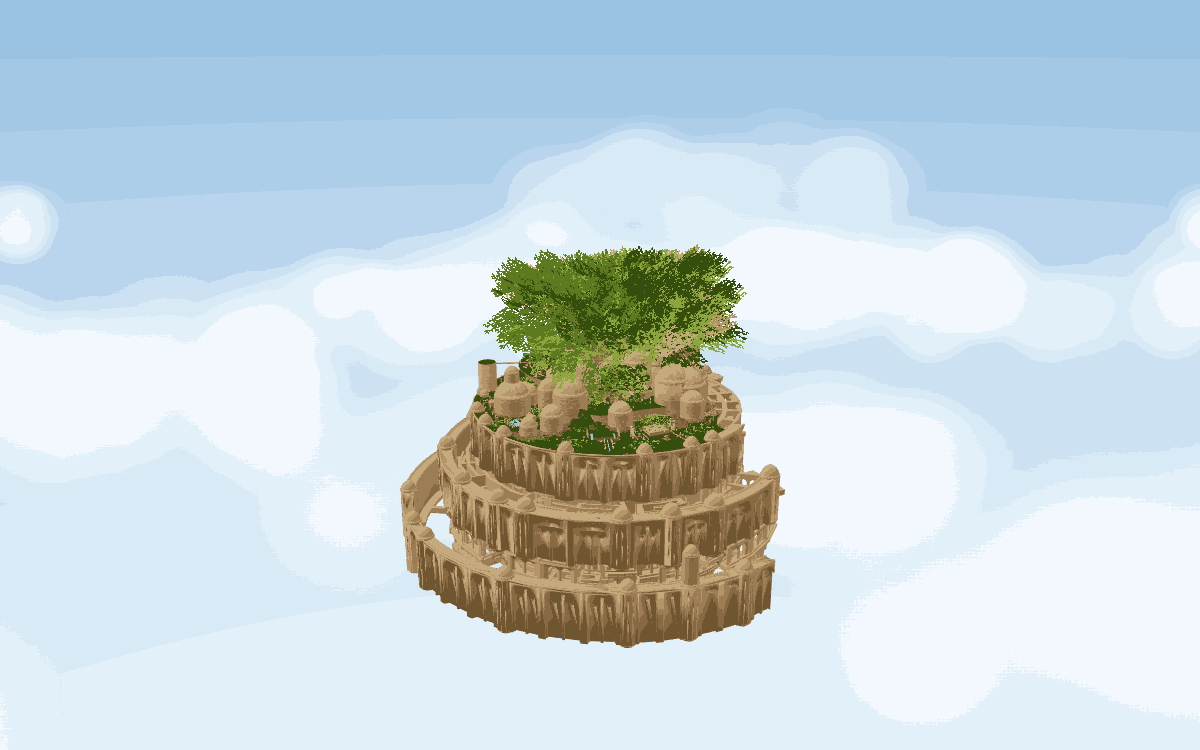
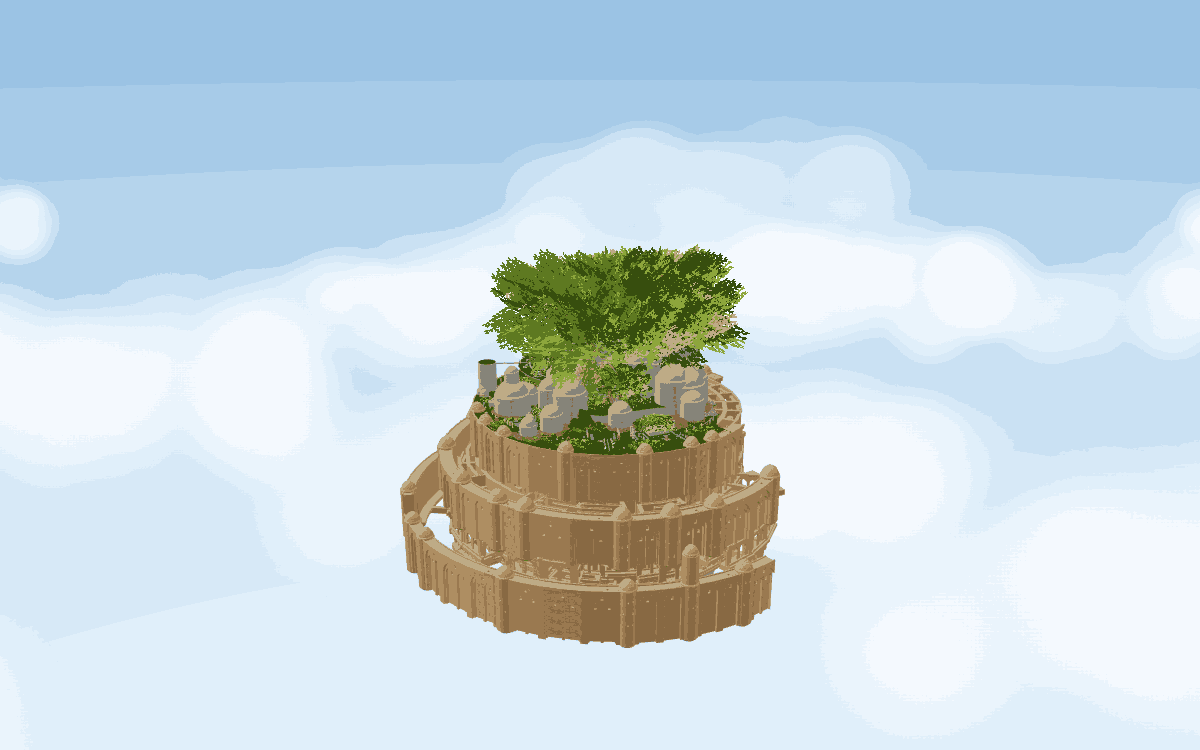
lab: fix laputa-skyward

Changed region(s): [[0.3392, 0.3373, 0.6475, 0.8587]]

diff --git a/lab/sketches/laputa-skyward.html b/lab/sketches/laputa-skyward.html
@@ -12,20 +12,21 @@ html,body{margin:0;width:100%;height:100%;overflow:hidden;background:#fff;font-f
 <script src="https://cdn.jsdelivr.net/npm/three@0.128.0/build/three.min.js"></script>
 <script src="https://cdn.jsdelivr.net/npm/three@0.128.0/examples/js/controls/OrbitControls.js"></script>
 <script src="https://cdn.jsdelivr.net/npm/three@0.128.0/examples/js/loaders/GLTFLoader.js"></script>
-<script src="https://cdn.jsdelivr.net/npm/three@0.128.0/examples/js/loaders/DRACOLoader.js"></script>
+<script src="https://cdn.jsdelivr.net/npm/meshoptimizer@0.24.0/meshopt_decoder.js"></script>
 <script>
 (()=>{'use strict';
 const status=document.querySelector('.status'),message=document.querySelector('#message'),progress=document.querySelector('progress');
 function fail(text){status.hidden=false;message.textContent=text;progress.hidden=true;}
-if(!window.THREE||!THREE.OrbitControls||!THREE.GLTFLoader||!THREE.DRACOLoader){fail('3D 라이브러리를 불러오지 못했습니다. 네트워크 연결을 확인하고 다시 열어주세요.');return;}
-let renderer;try{renderer=new THREE.WebGLRenderer({antialias:true,alpha:false,powerPreference:'high-performance'});}catch(e){fail('WebGL을 사용할 수 없습니다. 하드웨어 가속을 지원하는 브라우저에서 열어주세요.');return;}
-renderer.setPixelRatio(Math.min(devicePixelRatio||1,2));renderer.outputEncoding=THREE.sRGBEncoding;renderer.toneMapping=THREE.ACESFilmicToneMapping;renderer.toneMappingExposure=.95;document.body.prepend(renderer.domElement);
+if(!window.THREE||!THREE.OrbitControls||!THREE.GLTFLoader||!window.MeshoptDecoder){fail('3D 라이브러리를 불러오지 못했습니다. 네트워크 연결을 확인하고 다시 열어주세요.');return;}
+const mobileMode=matchMedia('(pointer: coarse)').matches||innerWidth<=800||(navigator.deviceMemory&&navigator.deviceMemory<=4);const pixelLimit=mobileMode?1.25:2;
+let renderer;try{renderer=new THREE.WebGLRenderer({antialias:!mobileMode,alpha:false,powerPreference:mobileMode?'low-power':'high-performance'});}catch(e){fail('WebGL을 사용할 수 없습니다. 하드웨어 가속을 지원하는 브라우저에서 열어주세요.');return;}
+renderer.setPixelRatio(Math.min(devicePixelRatio||1,pixelLimit));renderer.outputEncoding=THREE.sRGBEncoding;renderer.toneMapping=THREE.ACESFilmicToneMapping;renderer.toneMappingExposure=.95;document.body.prepend(renderer.domElement);
 const canvas=renderer.domElement;canvas.tabIndex=0;canvas.setAttribute('aria-label','라퓨타 3D 탐색. 드래그와 방향키로 회전, 휠 또는 더하기 빼기로 확대, H로 처음 시점.');
 const scene=new THREE.Scene();scene.background=new THREE.Color('#ffffff');const camera=new THREE.PerspectiveCamera(40,1,.05,1000);const controls=new THREE.OrbitControls(camera,canvas);controls.enableDamping=true;controls.dampingFactor=.055;controls.enablePan=true;controls.panSpeed=.35;controls.screenSpacePanning=true;controls.mouseButtons.MIDDLE=THREE.MOUSE.PAN;controls.mouseButtons.RIGHT=THREE.MOUSE.ROTATE;controls.rotateSpeed=.24;controls.zoomSpeed=.45;controls.minPolarAngle=.12;controls.maxPolarAngle=Math.PI*.85;
 scene.add(new THREE.HemisphereLight(0xe8f2ff,0x73715f,.85));const key=new THREE.DirectionalLight(0xfff1d9,1.15);key.position.set(-30,55,35);scene.add(key);const fill=new THREE.DirectionalLight(0xdbe8ff,.35);fill.position.set(35,10,-30);scene.add(fill);
 let model=null,radius=20,frame=0,loaded=false,contextLost=false;
 const reduced=matchMedia('(prefers-reduced-motion: reduce)'),skip=document.querySelector('#skip'),pause=document.querySelector('#pause');let intro=false,introTime=0,elapsed=0,lastTime=0,paused=false;const clouds=[];const homeTarget=new THREE.Vector3(),homePosition=new THREE.Vector3();
-const stats=window.laputaStats={ready:false,frames:0,calls:0,triangles:0};
+const stats=window.laputaStats={ready:false,frames:0,calls:0,triangles:0,mobile:!!mobileMode};
 function draw(time){frame=0;if(document.hidden||contextLost)return;const dt=lastTime?Math.min((time-lastTime)/1000,.05):0;lastTime=time;
 if(loaded&&!reduced.matches&&!paused){elapsed+=dt;for(const cloud of clouds){cloud.position.x=cloud.userData.x+Math.sin(elapsed*.018+cloud.userData.phase)*radius*.8;cloud.position.z=cloud.userData.z+Math.cos(elapsed*.012+cloud.userData.phase)*radius*.3;}if(intro){introTime+=dt;const t=Math.min(1,introTime/8),e=t*t*t*(t*(t*6-15)+10),angle=Math.PI/4+(1-e)*Math.PI*1.45,distance=homePosition.distanceTo(homeTarget)*(1+2.5*(1-e)),elevation=Math.atan(.48/Math.sqrt(2))+.22*(1-e);camera.position.copy(homeTarget).add(new THREE.Vector3(Math.sin(angle)*Math.cos(elevation),Math.sin(elevation),Math.cos(angle)*Math.cos(elevation)).multiplyScalar(distance));camera.lookAt(homeTarget);if(t===1)finishIntro();}}
 if(loaded&&!intro)controls.update();renderer.render(scene,camera);stats.target=controls.target.toArray();stats.frames++;stats.calls=renderer.info.render.calls;stats.triangles=renderer.info.render.triangles;stats.intro=intro;stats.elapsed=elapsed;stats.camera=camera.position.toArray();if(loaded&&!reduced.matches&&!paused)invalidate();else lastTime=0;}
@@ -36,18 +37,18 @@ function createAtmosphere(){
 const sky=new THREE.Mesh(new THREE.SphereGeometry(radius*23,32,16),new THREE.ShaderMaterial({side:THREE.BackSide,depthWrite:false,uniforms:{},vertexShader:'varying vec3 direction;void main(){direction=position;gl_Position=projectionMatrix*modelViewMatrix*vec4(position,1.0);}',fragmentShader:'varying vec3 direction;void main(){vec3 d=normalize(direction);float h=smoothstep(-.65,.85,d.y);vec3 c=mix(vec3(.88,.94,.98),vec3(.23,.52,.77),h);float sun=pow(max(dot(d,normalize(vec3(-.6,.4,-.7))),0.0),90.0);c+=vec3(.24,.18,.10)*sun;gl_FragColor=vec4(c,1.0);}'}));sky.position.copy(homeTarget);sky.renderOrder=-10;scene.add(sky);scene.background=null;
 const textureCanvas=document.createElement('canvas');textureCanvas.width=512;textureCanvas.height=256;const c=textureCanvas.getContext('2d');let seed=23;function random(){seed=(seed*1664525+1013904223)>>>0;return seed/4294967296;}
 for(let i=0;i<50;i++){const x=90+random()*330,y=112+(random()-.5)*75,r=24+random()*47,g=c.createRadialGradient(x,y,0,x,y,r);g.addColorStop(0,'rgba(255,255,255,.55)');g.addColorStop(.55,'rgba(250,253,255,.36)');g.addColorStop(1,'rgba(237,245,255,0)');c.fillStyle=g;c.fillRect(x-r,y-r,r*2,r*2);}const tex=new THREE.CanvasTexture(textureCanvas);tex.encoding=THREE.sRGBEncoding;
-for(let i=0;i<52;i++){const angle=random()*Math.PI*2,ring=radius*(2.6+random()*6),cloud=new THREE.Sprite(new THREE.SpriteMaterial({map:tex,toneMapped:false,transparent:true,opacity:.55+random()*.35,depthWrite:false,fog:false}));cloud.position.set(homeTarget.x+Math.sin(angle)*ring,homeTarget.y-radius*(.65+random()*1.5),homeTarget.z+Math.cos(angle)*ring);const scale=radius*(2.2+random()*3);cloud.scale.set(scale,scale*.42,1);cloud.userData={x:cloud.position.x,z:cloud.position.z,phase:random()*6};clouds.push(cloud);scene.add(cloud);}
+for(let i=0;i<(mobileMode?26:52);i++){const angle=random()*Math.PI*2,ring=radius*(2.6+random()*6),cloud=new THREE.Sprite(new THREE.SpriteMaterial({map:tex,toneMapped:false,transparent:true,opacity:.55+random()*.35,depthWrite:false,fog:false}));cloud.position.set(homeTarget.x+Math.sin(angle)*ring,homeTarget.y-radius*(.65+random()*1.5),homeTarget.z+Math.cos(angle)*ring);const scale=radius*(2.2+random()*3);cloud.scale.set(scale,scale*.42,1);cloud.userData={x:cloud.position.x,z:cloud.position.z,phase:random()*6};clouds.push(cloud);scene.add(cloud);}
 // Distant gliding birds, kept outside the castle silhouette.
 const birdPositions=[];for(let i=0;i<14;i++){const x=(random()-.5)*radius*8,y=homeTarget.y+radius*(.5+random()),z=-radius*(2+random()*2),a=radius*.04;birdPositions.push(x-a,y,z,x,y-a*.3,z,x,y-a*.3,z,x+a,y,z);}const birds=new THREE.LineSegments(new THREE.BufferGeometry().setAttribute('position',new THREE.Float32BufferAttribute(birdPositions,3)),new THREE.LineBasicMaterial({color:0x647e8e,transparent:true,opacity:.45}));scene.add(birds);
 }
 
 function invalidate(){if(!frame&&!document.hidden&&!contextLost)frame=requestAnimationFrame(draw);}
 controls.addEventListener('change',invalidate);
-function resize(){renderer.setPixelRatio(Math.min(devicePixelRatio||1,2));renderer.setSize(innerWidth,innerHeight);camera.aspect=innerWidth/Math.max(1,innerHeight);camera.updateProjectionMatrix();if(loaded){setHome();}invalidate();}
+function resize(){renderer.setPixelRatio(Math.min(devicePixelRatio||1,pixelLimit));renderer.setSize(innerWidth,innerHeight);camera.aspect=innerWidth/Math.max(1,innerHeight);camera.updateProjectionMatrix();if(loaded){setHome();}invalidate();}
 function setHome(){const fov=THREE.MathUtils.degToRad(camera.fov),lim=Math.min(fov,2*Math.atan(Math.tan(fov/2)*camera.aspect)),distance=radius/Math.sin(lim/2)*.76;homePosition.copy(homeTarget).add(new THREE.Vector3(1,.48,1).normalize().multiplyScalar(distance));controls.maxDistance=distance*2;}
 function home(){const damping=controls.enableDamping;controls.enableDamping=false;controls.update();controls.target.copy(homeTarget);camera.position.copy(homePosition);controls.update();controls.enableDamping=damping;invalidate();}
-const decoder=new THREE.DRACOLoader();decoder.setDecoderPath('https://cdn.jsdelivr.net/npm/three@0.128.0/examples/js/libs/draco/gltf/');decoder.setWorkerLimit(2);const loader=new THREE.GLTFLoader();loader.setDRACOLoader(decoder);
-loader.load('../../assets/models/lab/laputa-web.glb?v=laputa2',g=>{model=g.scene;const box=new THREE.Box3().setFromObject(model),sphere=box.getBoundingSphere(new THREE.Sphere());radius=sphere.radius;homeTarget.copy(sphere.center);scene.add(model);camera.near=radius/1500;camera.far=radius*80;camera.updateProjectionMatrix();controls.minDistance=radius*.12;loaded=true;document.querySelector('#home').disabled=false;setHome();home();createAtmosphere();intro=!reduced.matches;introTime=0;controls.enabled=!intro;skip.hidden=!intro;status.hidden=true;stats.ready=true;syncMotion();stats.meshes=0;model.traverse(o=>{if(o.isMesh)stats.meshes++;});decoder.dispose();},e=>{if(e.lengthComputable){progress.max=e.total;progress.value=e.loaded;message.textContent='라퓨타를 불러오는 중 · '+Math.round(e.loaded/e.total*100)+'%';}},()=>{decoder.dispose();fail('모델을 불러오지 못했습니다. 네트워크 연결을 확인한 후 다시 열어주세요.');});
+const loader=new THREE.GLTFLoader();loader.setMeshoptDecoder(MeshoptDecoder);
+loader.load('../../assets/models/lab/'+(mobileMode?'laputa-mobile.glb':'laputa-desktop.glb')+'?v=uv-memory-3',g=>{model=g.scene;model.traverse(o=>{if(o.isMesh){const materials=Array.isArray(o.material)?o.material:[o.material];for(const m of materials){if(m.userData.webFlatShading)m.flatShading=true;}}});const box=new THREE.Box3().setFromObject(model),sphere=box.getBoundingSphere(new THREE.Sphere());radius=sphere.radius;homeTarget.copy(sphere.center);scene.add(model);camera.near=radius/1500;camera.far=radius*80;camera.updateProjectionMatrix();controls.minDistance=radius*.12;loaded=true;document.querySelector('#home').disabled=false;setHome();home();createAtmosphere();intro=!reduced.matches;introTime=0;controls.enabled=!intro;skip.hidden=!intro;status.hidden=true;stats.ready=true;syncMotion();stats.meshes=0;model.traverse(o=>{if(o.isMesh)stats.meshes++;});},e=>{if(e.lengthComputable){progress.max=e.total;progress.value=e.loaded;message.textContent='라퓨타를 불러오는 중 · '+Math.round(e.loaded/e.total*100)+'%';}},()=>{fail('모델을 불러오지 못했습니다. 네트워크 연결을 확인한 후 다시 열어주세요.');});
 const raycaster=new THREE.Raycaster(),pointer=new THREE.Vector2();canvas.addEventListener('dblclick',e=>{if(!model||intro)return;const rect=canvas.getBoundingClientRect();pointer.set((e.clientX-rect.left)/rect.width*2-1,-(e.clientY-rect.top)/rect.height*2+1);raycaster.setFromCamera(pointer,camera);const hit=raycaster.intersectObject(model,true)[0];if(!hit)return;const direction=camera.position.clone().sub(hit.point).normalize();controls.target.copy(hit.point);camera.position.copy(hit.point).addScaledVector(direction,radius*.65);controls.update();invalidate();});
 canvas.addEventListener('keydown',e=>{if(!loaded)return;if(intro){if(e.key==='Escape'||e.key.toLowerCase()==='h'){e.preventDefault();finishIntro();}return;}const offset=camera.position.clone().sub(controls.target),s=new THREE.Spherical().setFromVector3(offset);if(e.key.toLowerCase()==='h'){e.preventDefault();home();return;}if(e.key==='ArrowLeft')s.theta-=.08;else if(e.key==='ArrowRight')s.theta+=.08;else if(e.key==='ArrowUp')s.phi-=.06;else if(e.key==='ArrowDown')s.phi+=.06;else if(e.key==='+'||e.key==='=')s.radius*=.9;else if(e.key==='-')s.radius*=1.1;else return;e.preventDefault();s.phi=THREE.MathUtils.clamp(s.phi,controls.minPolarAngle,controls.maxPolarAngle);s.radius=THREE.MathUtils.clamp(s.radius,controls.minDistance,controls.maxDistance);camera.position.copy(controls.target).add(new THREE.Vector3().setFromSpherical(s));controls.update();invalidate();});
 canvas.addEventListener('auxclick',e=>{if(e.button===1)e.preventDefault();});canvas.addEventListener('pointerdown',()=>canvas.focus());canvas.addEventListener('webglcontextlost',e=>{e.preventDefault();contextLost=true;cancelAnimationFrame(frame);frame=0;fail('그래픽 연결이 중단되었습니다. 복구를 기다리거나 뷰어에서 RESTART를 눌러주세요.');});canvas.addEventListener('webglcontextrestored',()=>{contextLost=false;if(loaded)status.hidden=true;invalidate();});

diff --git a/lab/sketches/making/laputa-skyward.md b/lab/sketches/making/laputa-skyward.md
@@ -1,6 +1,6 @@
 # Laputa / Skyward
 
-**GPT-6 Astra Light · 2026·09 · 대화 3회, 수정 2회**
+**GPT-6 Astra Light · 2026·09 · 대화 4회, 수정 3회**
 기존 라퓨타를 보존한 별도 변형으로, 움직이는 구름과 회전하며 접근하는 카메라 도입부를 더했습니다.
 모델명은 기존 대화에서 사용자가 지정한 표기를 유지했습니다. 횟수는 이번 복제 버전 요청 기준입니다.
 
@@ -68,3 +68,17 @@
 - 헤드리스 Chrome 1280×800에서 약 3초간 회전 입력 중 측정한 실제 렌더 프레임은 약 60fps였습니다. 모델 렌더 삼각형은 4,139,907개입니다.
 - 양쪽 버전의 로딩·회전·시점 복귀·375×812 화면과 Skyward 도입부 자동 종료를 확인했습니다. 콘솔 오류 및 JavaScript 예외는 0개였습니다.
 - 이전보다 다운로드와 기하 복잡도가 증가했습니다. 실제 모바일 기기와 느린 네트워크는 미검증입니다. 위의 3.76MB 등의 수치는 이전 제작 당시 기록입니다.
+
+
+## 재질과 모바일 메모리 수정
+
+> 봤는데 이거 이런식으로 매터리얼이 깨져서 나옴. 이거 어떻게 해야함. 그리고 이거 모바일에서는 튕킴. 그리고 자세히보면 라퓨타 성 위쪽에는 흰색 매터리얼의 벽돌 건물인데 그냥 다 하나의 색으로 통일됐음.
+
+- 원본의 메시 구조와 UV를 유지한 기준 모델에서도 벽면의 잘못된 정점 음영을 재현했습니다. 건축 재질의 평면 음영으로 삼각형 모양의 음영 왜곡이 없어지는 것을 비교 확인했습니다. 해당 건축 재질의 노멀맵도 제외했습니다.
+- 상단 일부 건물은 제공된 GLB에도 황토색 돌 텍스처로 연결되어 있었습니다. 사용자가 설명한 의도에 따라 *4, *6, Stone_Sandstone_Ashlar_Light 재질을 GLB 안의 흰 벽돌 텍스처에 연결했습니다. Blender 원본의 정확한 재질을 복구한 것이라고 주장하지 않습니다.
+- 큰 반복 UV 좌표의 정밀도를 유지하려고 UV는 float32로 보존하고 위치·노멀만 양자화했습니다. Draco 대신 버전 고정 Meshopt 0.24.0 디코더를 사용합니다.
+- 데스크톱: 약 30.72MB, 1,380,889 삼각형. 모바일: 약 12.78MB, 738,410 삼각형. 모바일에서는 기하 단순화, 512px 텍스처, 노멀·거칠기·AO 텍스처 제거를 적용했습니다.
+- 텍스처 해상도에서 계산한 RGBA8+밉맵 GPU 메모리 추정값은 이전 약 760.6MB에서 모바일 약 24.5MB로 감소했습니다. 이 값은 실제 프로세스 메모리 측정값이 아니며 기하·프레임버퍼·로딩 임시 메모리를 포함하지 않습니다.
+- 터치 중심 기기, 초기 폭 800px 이하, 메모리 정보가 4GB 이하인 기기는 모바일 모델 하나만 불러옵니다. 모바일 DPR은 1.25로 제한하고 안티앨리어싱을 끕니다. Skyward 모바일 구름은 26개로 줄였습니다.
+- 실제 휴대폰의 종료 원인은 기기에서 직접 재현하지 못했습니다. 위 경량화로 메모리 부담을 낮췄지만 해당 기기에서 재확인이 필요합니다.
+- 비교 렌더링과 확대 화면에서 벽면 음영과 흰 건물의 분리를 확인했습니다. 헤드리스 Chrome의 데스크톱 및 모바일 에뮬레이션에서 약 60fps였고 JavaScript·콘솔 오류는 0개였습니다.
